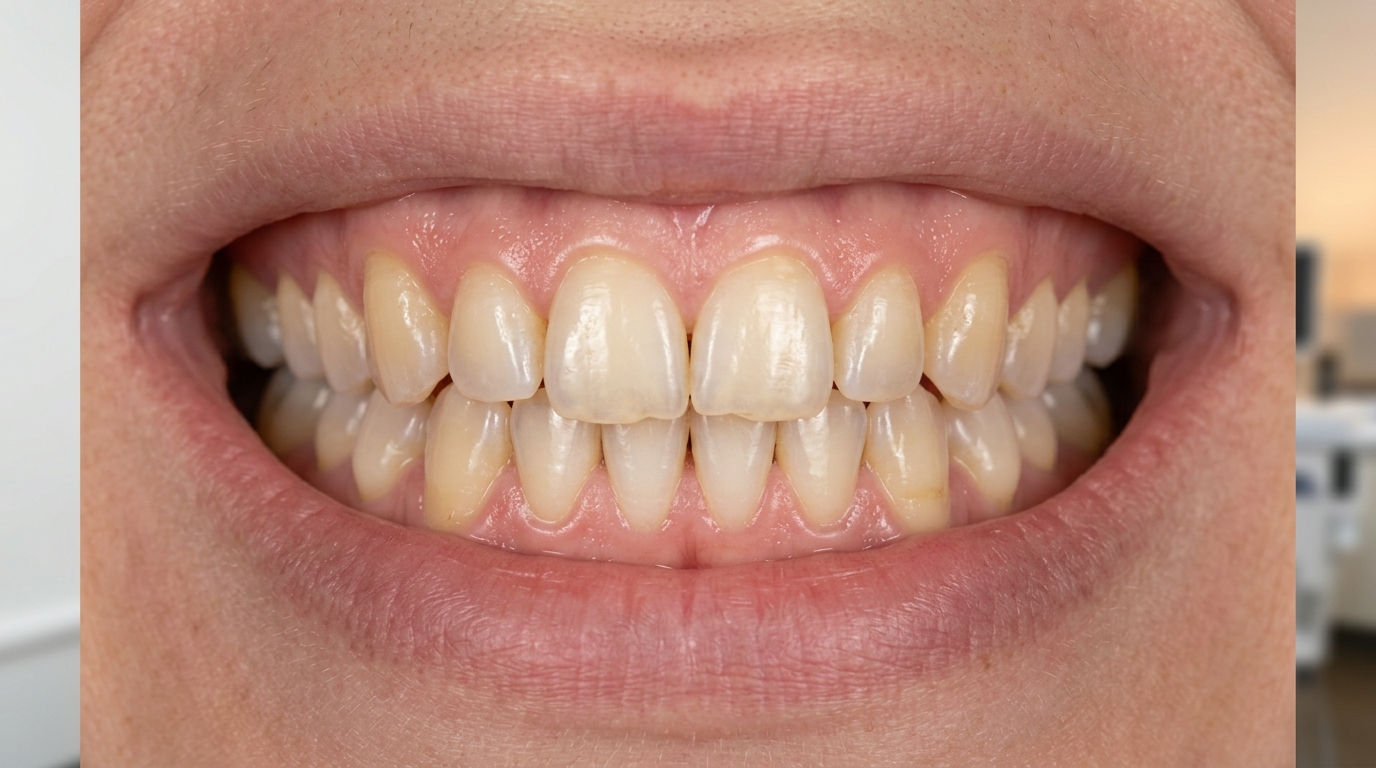
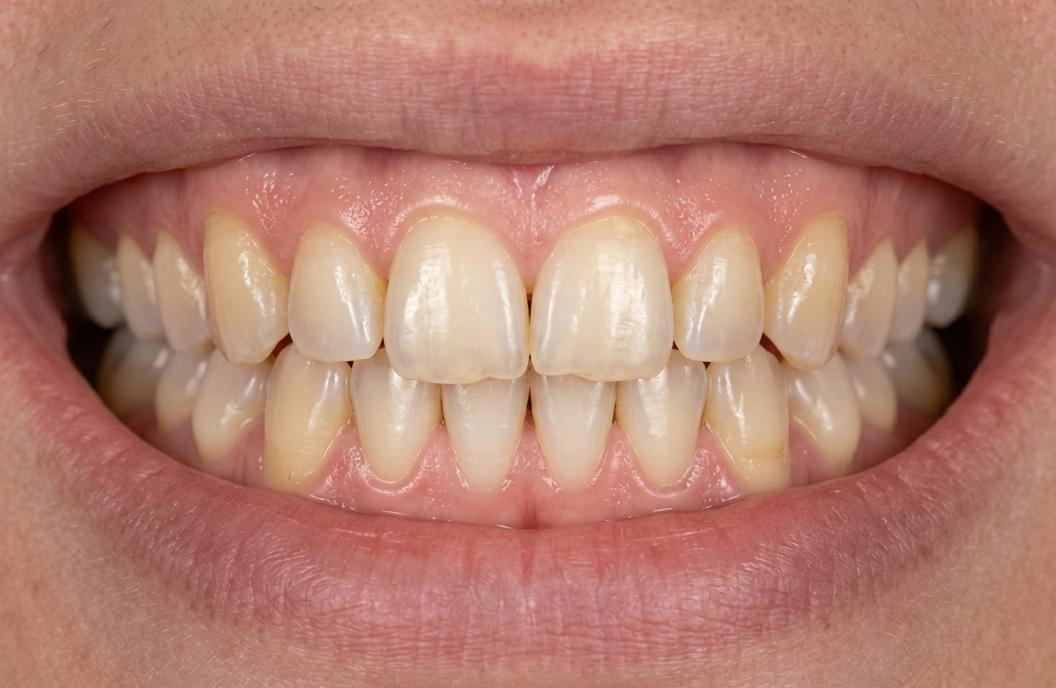
fix(layout): fit smile images edge-to-edge inside container, eliminate side and bottom gaps

diff --git a/public/css/theme/before-after.css b/public/css/theme/before-after.css
@@ -54,24 +54,32 @@
   border: 1px solid rgba(197, 155, 39, 0.25);
   user-select: none;
   touch-action: pan-y;
+  background: transparent;
 }
 
 .ghm-ba-frame {
   position: relative;
   width: 100%;
-  aspect-ratio: 16 / 10;
+  aspect-ratio: 1056 / 688;
   overflow: hidden;
-  background: #111;
+  background: transparent;
+  line-height: 0;
 }
 
 .ghm-ba-img {
-  position: absolute;
-  top: 0;
-  left: 0;
-  width: 100%;
-  height: 100%;
-  object-fit: cover;
+  position: absolute !important;
+  top: 0 !important;
+  left: 0 !important;
+  width: 100% !important;
+  height: 100% !important;
+  max-width: none !important;
+  max-height: none !important;
+  object-fit: cover !important;
+  object-position: center !important;
   pointer-events: none;
+  display: block !important;
+  margin: 0 !important;
+  padding: 0 !important;
 }
 
 .ghm-ba-after-wrap {
@@ -88,17 +96,18 @@
 .ghm-ba-badge {
   position: absolute;
   bottom: 20px;
-  padding: 6px 14px;
+  padding: 8px 18px;
   font-size: 12px;
   font-weight: 700;
-  letter-spacing: 0.05em;
-  border-radius: 20px;
+  letter-spacing: 0.08em;
+  border-radius: 30px;
   color: #FFFFFF;
-  background: rgba(0, 0, 0, 0.55);
+  background: rgba(0, 0, 0, 0.65);
   backdrop-filter: blur(8px);
   -webkit-backdrop-filter: blur(8px);
   pointer-events: none;
-  z-index: 5;
+  z-index: 15;
+  box-shadow: 0 4px 12px rgba(0, 0, 0, 0.2);
 }
 
 .ghm-ba-badge.before {
@@ -169,8 +178,16 @@
   .ghm-ba-title {
     font-size: 26px;
   }
-  .ghm-ba-frame {
-    aspect-ratio: 4 / 3;
+  .ghm-ba-badge {
+    bottom: 12px;
+    padding: 6px 14px;
+    font-size: 11px;
+  }
+  .ghm-ba-badge.before {
+    right: 12px;
+  }
+  .ghm-ba-badge.after {
+    left: 12px;
   }
   .ghm-ba-handle {
     width: 38px;

diff --git a/public/index.html b/public/index.html
@@ -93,7 +93,7 @@ a.pk-b--primary:hover, button.pk-b--primary:hover, .pkh-cta:hover, .pkr-send:hov
 <link rel='stylesheet' id='widget-google_maps-css' href="/css/theme/widget-google_maps.min.css" media='all' />
 <link rel='stylesheet' id='e-animation-fadeIn-css' href="/css/theme/fadeIn.min.css" media='all' />
 <link rel='stylesheet' id='widget-spacer-css' href="/css/theme/widget-spacer.min.css" media='all' />
-<link rel='stylesheet' id='ghm-before-after-css' href="/css/theme/before-after.css" media='all' />
+<link rel='stylesheet' id='ghm-before-after-css' href="/css/theme/before-after.css?v=3" media='all' />
 <link rel='stylesheet' id='swiper-css' href="/css/theme/swiper.min.css" media='all' />
 <link rel='stylesheet' id='e-swiper-css' href="/css/theme/e-swiper.min.css" media='all' />
 <link rel='stylesheet' id='widget-image-carousel-css' href="/css/theme/widget-image-carousel.min.css" media='all' />
@@ -680,12 +680,12 @@ Hangi <strong>Diş Tedavilerini</strong> Sunuyoruz?</div>				</div>
 				<div class="ghm-ba-wrapper">
 					<div class="ghm-ba-frame">
 						<!-- Öncesi (Before) -->
-						<img src="/images/gulus-once.jpg?v=2" alt="Gülüş Tasarımı Öncesi" class="ghm-ba-img before">
+						<img src="/images/gulus-once.jpg?v=3" alt="Gülüş Tasarımı Öncesi" class="ghm-ba-img before">
 						<span class="ghm-ba-badge before">ÖNCESİ</span>
 						
 						<!-- Sonrası (After) -->
 						<div class="ghm-ba-after-wrap">
-							<img src="/images/gulus-sonra.jpg?v=2" alt="Gülüş Tasarımı Sonrası" class="ghm-ba-img after">
+							<img src="/images/gulus-sonra.jpg?v=3" alt="Gülüş Tasarımı Sonrası" class="ghm-ba-img after">
 							<span class="ghm-ba-badge after">SONRASI</span>
 						</div>
 
